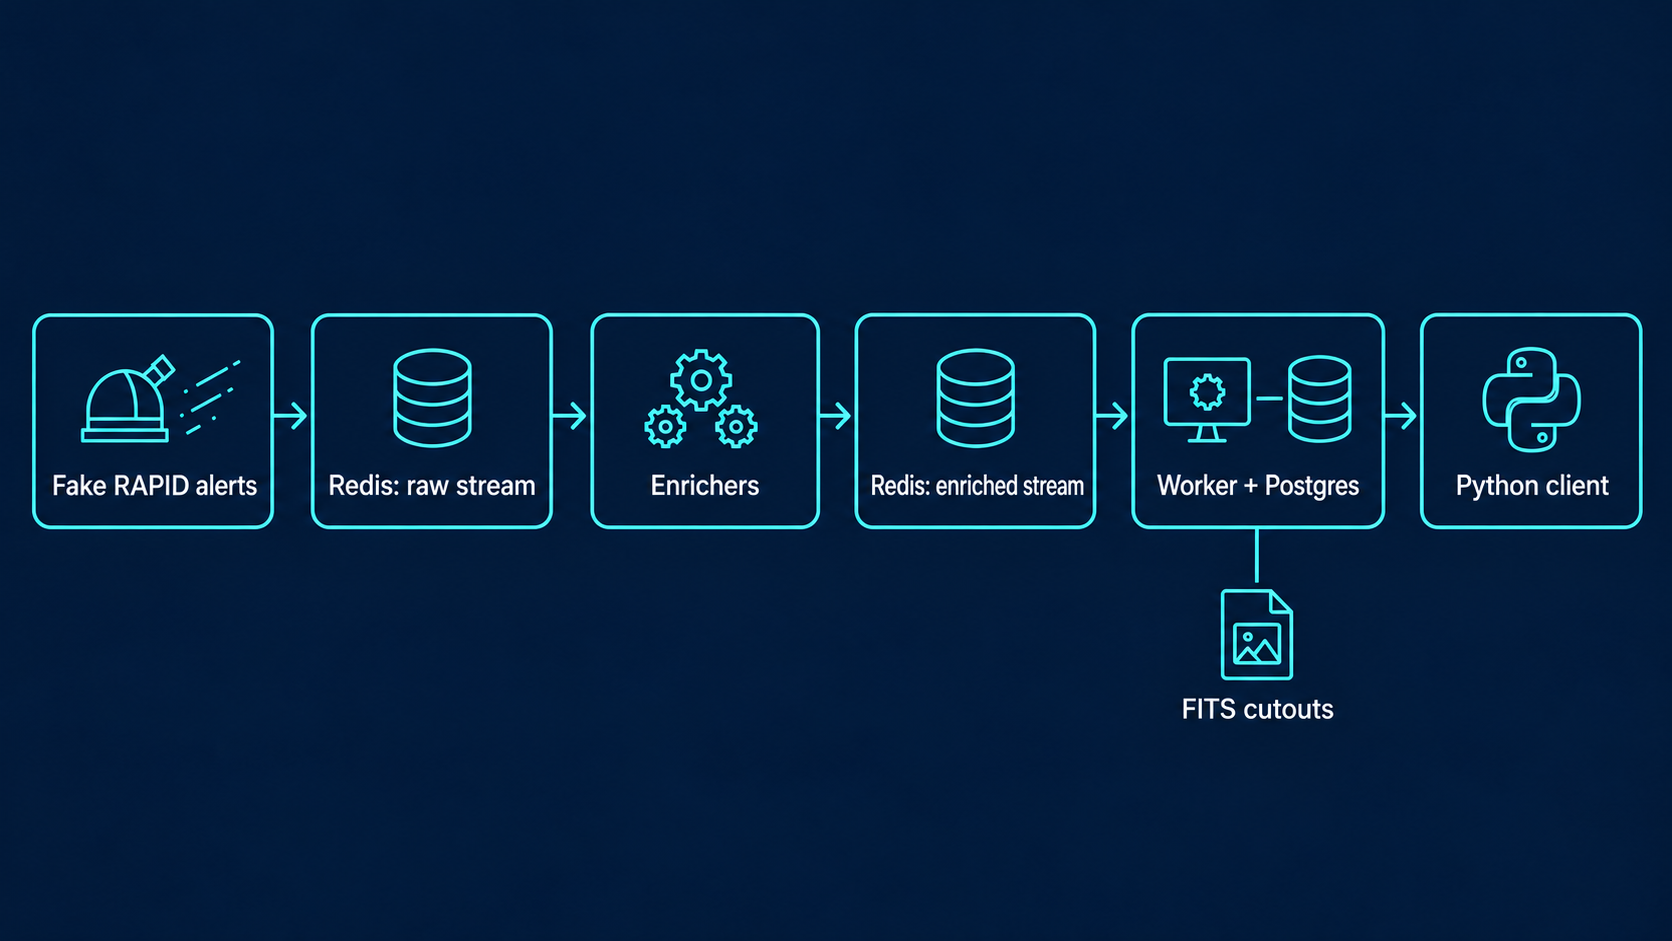
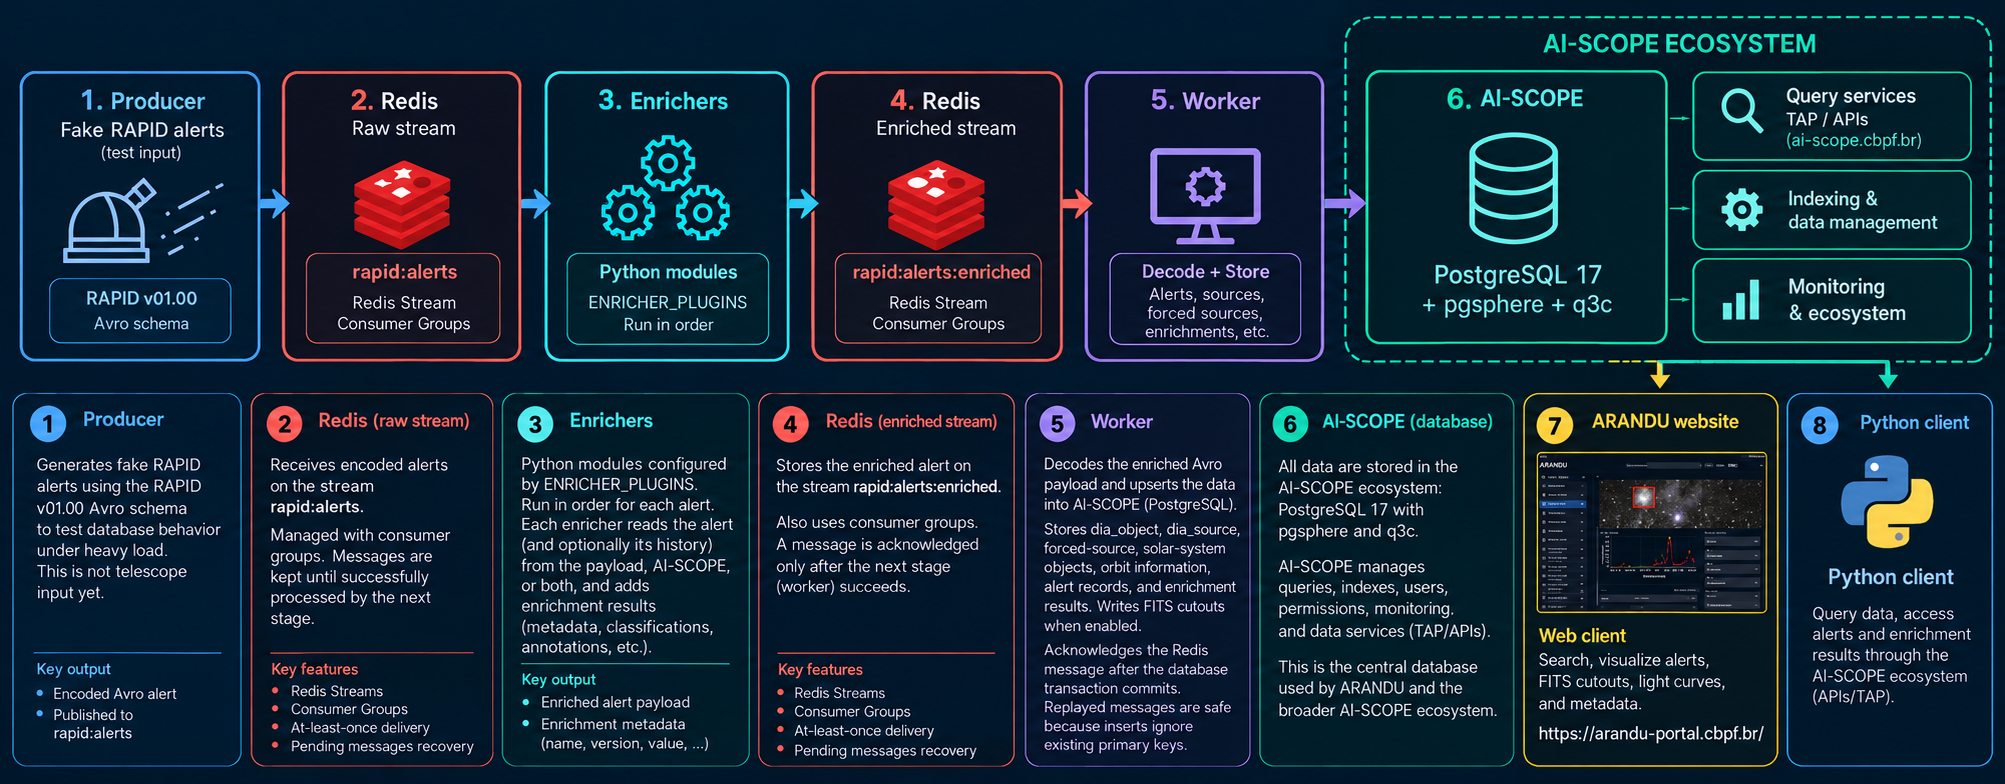
updated docs

diff --git a/docs/[getting-started]/pipeline.md b/docs/[getting-started]/pipeline.md
@@ -2,30 +2,139 @@
 
 ## Current input
 
-For now, the producer creates fake alerts using the [RAPID v01.00 Avro schema](https://github.com/Schwarzam/arandu/blob/main/arandu/producer.py#L121-L329). This tests database behavior under heavy load. It is not telescope input.
+For now, the producer creates fake alerts using the [RAPID v01.00 Avro schema](https://github.com/Schwarzam/arandu/blob/main/arandu/producer.py#L121-L329). This is used to test ingestion and database behavior under load. It is not telescope input.
 
 ## Flow
 
-`producer → Redis → enricher → Redis → worker → Postgres`
+`producer → Redis → enricher → Redis → worker → AI-SCOPE`
 
 ![Pipeline flow](pipeline-flow.png)
 
 1. The producer encodes a fake RAPID alert and adds it to `rapid:alerts`.
-2. The enricher reads the raw stream, runs the configured enrichers, and adds the alert plus enrichment metadata to `rapid:alerts:enriched`.
-3. The worker reads the enriched stream and writes the alert to Postgres. It also writes FITS cutouts when enabled.
+2. The enricher reads the raw stream, runs the modules configured in `ENRICHER_PLUGINS`, and adds the alert and enrichment metadata to `rapid:alerts:enriched`.
+3. The worker reads the enriched stream, decodes the Avro payload, and writes the records to the AI-SCOPE database.
+4. AI-SCOPE stores and manages the data, including database indexes and query services.
+5. The data can be accessed through the Arandu website or the Python client.
 
 ## Redis
 
-Redis provides the two work queues: `rapid:alerts` and `rapid:alerts:enriched`. The enricher and worker use consumer groups. A message is acknowledged only after the next stage succeeds. Pending messages are reclaimed after a consumer stops.
+Redis provides two work queues:
 
-Redis is not the archive. Processed stream entries are deleted. Postgres stores the alert records.
+- `rapid:alerts`
+- `rapid:alerts:enriched`
+
+The enricher and worker use Redis consumer groups.
+
+A message is acknowledged only after the next stage completes successfully. If a consumer stops before acknowledging a message, the pending message can be reclaimed by another consumer.
+
+Redis is not used as the data archive. Processed stream entries are deleted after processing. The resulting records are stored in AI-SCOPE.
 
 ## Enrichers
 
-Enrichers are Python modules configured by `ENRICHER_PLUGINS`. They run in order for each alert. An enricher receives the alert and may read its history from the payload, Postgres, or both. It returns the alert and a result containing a name, version, value, and additional fields.
+Enrichers are Python modules configured through `ENRICHER_PLUGINS`.
 
-The worker stores each result in `arandu.enrichment`. One detection can have results from multiple enrichers and versions.
+They run in order for each alert. An enricher receives the alert and can read information from:
+
+- the alert payload;
+- the alert history stored in AI-SCOPE;
+- or both.
+
+Each enricher returns the alert and an enrichment result. A result can contain:
+
+- name;
+- version;
+- value;
+- additional fields.
+
+The worker stores these results in the `arandu.enrichment` table in AI-SCOPE.
+
+A detection can have results from multiple enrichers and multiple versions of the same enricher.
 
 ## Worker
 
-The worker decodes the enriched Avro payload and upserts `dia_object`, `dia_source`, forced-source, solar-system, orbit, alert, and enrichment records in Postgres. It acknowledges the Redis message after the database transaction commits. Replayed messages are safe because inserts ignore existing primary keys.
+The worker reads messages from `rapid:alerts:enriched` and decodes the enriched Avro payload.
+
+It writes or updates the corresponding records in AI-SCOPE, including:
+
+- `dia_object`;
+- `dia_source`;
+- `dia_forced_source`;
+- solar-system records;
+- orbit records;
+- alert records;
+- enrichment records.
+
+When FITS cutout storage is enabled, the worker also writes the corresponding cutout files.
+
+The Redis message is acknowledged only after the database transaction commits.
+
+Replayed messages do not create duplicate records because inserts ignore existing primary keys.
+
+## AI-SCOPE
+
+AI-SCOPE provides the database and data-access layer used by Arandu.
+
+The Arandu tables are stored in PostgreSQL within the AI-SCOPE infrastructure. AI-SCOPE is responsible for database operations such as:
+
+- storage;
+- indexes;
+- query execution;
+- database access;
+- user permissions;
+- TAP and API access;
+- database monitoring.
+
+The database uses PostgreSQL 17 with `pgsphere` and `q3c` for astronomical coordinate operations and spatial queries.
+
+Arandu writes alert and enrichment records to this database through the worker. Other Arandu components query the same data through the AI-SCOPE services.
+
+This separates alert processing from database and query management:
+
+`Arandu → ingestion and enrichment`
+
+`AI-SCOPE → storage, indexing, queries, and data access`
+
+## Data access
+
+Data stored by Arandu in AI-SCOPE can be accessed through two interfaces.
+
+### Arandu website
+
+The web interface provides access to alerts and associated data:
+
+https://arandu-portal.cbpf.br/
+
+It can be used to inspect alert records, source information, enrichment results, light curves, and FITS cutouts.
+
+The website obtains its data from the AI-SCOPE ecosystem rather than maintaining a separate alert database.
+
+### Python client
+
+The Python client provides programmatic access to Arandu data.
+
+Documentation:
+
+https://arandu-portal.cbpf.br/docs/python-arandu/main
+
+The client can be used to query alerts, sources, histories, and enrichment results through the data services provided by AI-SCOPE.
+
+This allows the same stored data to be accessed through either the web interface or Python without creating separate data stores.
+
+## Data path
+
+The complete data path is:
+
+`RAPID alert`
+→ `producer`
+→ `rapid:alerts`
+→ `enrichers`
+→ `rapid:alerts:enriched`
+→ `worker`
+→ `AI-SCOPE`
+→ `Arandu website / Python client`
+
+Redis handles communication between processing stages.
+
+AI-SCOPE stores and serves the resulting data.
+
+The Arandu website and Python client provide user access to the data.

diff --git a/docs/[getting-started]/using-arandu.md b/docs/[getting-started]/using-arandu.md
@@ -22,4 +22,4 @@ The position-search format is right ascension, declination, and radius in arcsec
 
 ## Programmatic access
 
-For Python tutorials and API access, see the [Python access guide](../[python] arandu/main.md).
+For Python tutorials and API access, see the [Python access guide](https://arandu-portal.cbpf.br/docs/python-arandu/main).
